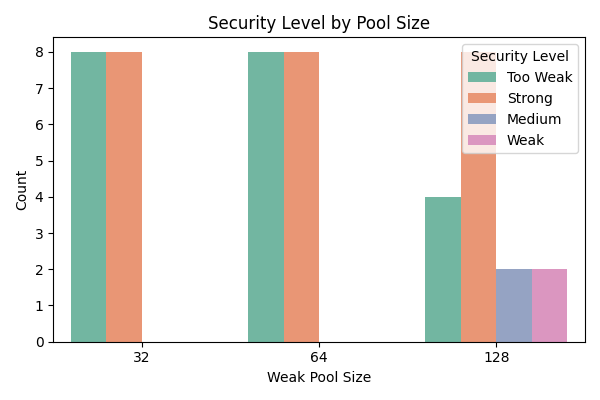
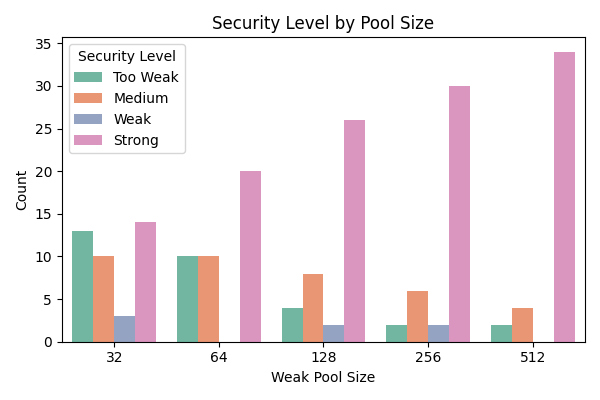
update report base on new word count range and weak pool size range

diff --git a/report/Analysis report based on the theoretical interpretation of time.md b/report/Analysis report based on the theoretical interpretation of time.md
@@ -1,6 +1,6 @@
 # Comparative Analysis of Mnemonic Phrase Security Levels
 
-This section presents a comparative experiment that evaluates how different mnemonic generation parameters affect the theoretical security level of blockchain wallets. The security level is assessed based on the estimated time to successfully brute-force the mnemonic phrase, considering a decryption speed of 10^10 attempts per second.
+This section presents a comparative experiment that evaluates how different mnemonic generation parameters affect the theoretical security level of blockchain wallets. The security level is assessed based on the estimated time to successfully brute-force the mnemonic phrase, considering a decryption speed of 10^10 attempts per second (The decryption speed of the A100 GPU).
 
 ---
 
@@ -8,9 +8,9 @@ This section presents a comparative experiment that evaluates how different mnem
 
 | Parameter        | Values                  |
 |------------------|--------------------------|
-| `word_count`     | 12, 24                   |
+| `word_count`     | 12, 15, 18, 21,  24      |
 | `prefix_length`  | 3, 4, 5, 6               |
-| `weak_pool_size` | 32, 64, 128              |
+| `weak_pool_size` | 32, 64, 128, 256, 512    |
 | `allow_repeats`  | True, False              |
 
 ---
@@ -24,19 +24,31 @@ This section presents a comparative experiment that evaluates how different mnem
 | Medium         | 1 year – 100 years        | 60–80 bits                |
 | Strong         | More than 100 years       | > 80 bits                 |
 
+In this experiment, we use the following classification standard:
+
+- **Too Weak**: The estimated time to brute-force the mnemonic is less than 1 month.
+- **Weak**: The estimated time to brute-force the mnemonic is between 1 month and 1 year.
+- **Medium**: The estimated time to brute-force the mnemonic is between 1 year and 100 years.
+- **Strong**: The estimated time to brute-force the mnemonic is more than 100 years.
+
 > When the security level based on time and entropy differs, the lower level is chosen.
 
 ---
 
 ## Experimental Results and Analysis
 
+
+
 ### 1. The relationship between Security Level and Word Count
 
 ![word_count_vs_security_level](images/word_count_vs_security_level.png)
 
-- **Observation**: All 24-word mnemonics fall into the **Strong** category.
-- **In contrast**, most 12-word mnemonics are **Too Weak**, with only a few reaching Medium or Weak levels.
-- **Conclusion**: Increasing `word_count` is the most effective way to improve security.
+- **Observation**
+  - 12-word mnemonics are mostly classified as **Too Weak** or **Medium**, with only a few reaching the level of **Weak** or **Strong**. 
+  - The 15-word mnemonic significantly improved, with most achieving Medium or Strong levels. 
+  - 18-word mnemonic scheme is overall leaning towards **Strong**, with only a few falling into the **Medium** category. 
+  - The 21-word and 24-word versions are all classified under the **Strong** category.
+- **Conclusion**: Security increases almost exponentially with word_count. Starting from 18 words, almost all configurations have become so strong that they exceed the cracking time of a century.
 
 ---
 
@@ -44,8 +56,7 @@ This section presents a comparative experiment that evaluates how different mnem
 
 ![prefix_length_vs_security_level](images/prefix_length_vs_security_level.png)
 
-- **Observation**: As `prefix_length` increases from 3 to 6, the number of **Too Weak** cases increases significantly.
-- **Explanation**: A longer prefix leaves fewer unknown words (`r = word_count - prefix_length`), reducing entropy.
+- **Observation**: As `prefix_length` increases, the number of **Too Weak** cases increases significantly.
 - **Conclusion**: Avoid overly long fixed prefixes when generating mnemonics.
 
 ---
@@ -55,8 +66,9 @@ This section presents a comparative experiment that evaluates how different mnem
 ![pool_size_vs_security_level](images/pool_size_vs_security_level.png)
 
 - **Observation**:
-  - Pool size 32 and 64 yield only **Too Weak** and **Strong** levels (indicating a threshold effect).
-  - Pool size 128 produces the full range, including **Medium** and **Weak**.
+  - When the pool size is 32 or 64, **Too Weak** and **Medium** account for a large proportion, making it difficult to ensure long-term security. 
+  - When the pool size is 128 or larger, the security level significantly improves, and "Strong" clearly takes the dominant position.
+  - When the pool size is 512, almost all cases are classified as **Strong**.
 - **Conclusion**: Expanding the weak entropy pool significantly increases security variability and potential strength.
 
 ---
@@ -66,16 +78,7 @@ This section presents a comparative experiment that evaluates how different mnem
 ![allow_repeats_vs_security_level](images/allow_repeats_vs_security_level.png)
 
 - **Observation**: Allowing or disallowing repetition leads to nearly symmetrical distribution.
-- **Explanation**: For the given test cases, `allow_repeats` has limited impact on entropy, because most cases use a sufficiently large pool.
 - **Conclusion**: While not critical alone, this factor can matter when `pool_size` is small and `word_count` is high.
-
----
-
-## Key Insights
-
-- Mnemonics of 24 words are categorically safer than 12-word versions.
-- Using short prefixes and large weak pools is essential to avoid "Too Weak" configurations.
-- The interaction between variables is non-linear: e.g., increasing pool size only helps when the prefix length is not too long.
 
 ---
 
@@ -83,9 +86,10 @@ This section presents a comparative experiment that evaluates how different mnem
 
 To ensure a mnemonic phrase achieves at least a **Medium** or **Strong** level of security, we recommend:
 
-- Always use **24 words**.
-- Keep fixed prefixes to **3–4 words max**.
-- Use weak pools with **at least 128 words**.
-- Enable randomness (i.e., allow repeats if needed).
+- Always use at least **18 words**, and preferably **24 words** to ensure the highest level of security.
+- Avoid using long fixed prefixes to **3–4 words max**, as longer prefixes sharply reduce remaining entropy.
+- Use a sufficiently large candidate word list: A scheme with a word list capacity of less than 128 words is unreliable; actual security begins with a 128-word word list and is significantly enhanced when the word list size reaches 512 words.
+- Whether to allow repetition does not have any significant impact when the word count is greater than or equal to 12 and the prefix length is less than or equal to 6. However, to increase entropy, it is best to allow repetition.
+- To effectively resist brute-force attacks in the long term, a minimum security baseline should be set with at least 18 characters, a character pool size of at least 128, and no more than 3 known prefixes.
 
 ---
